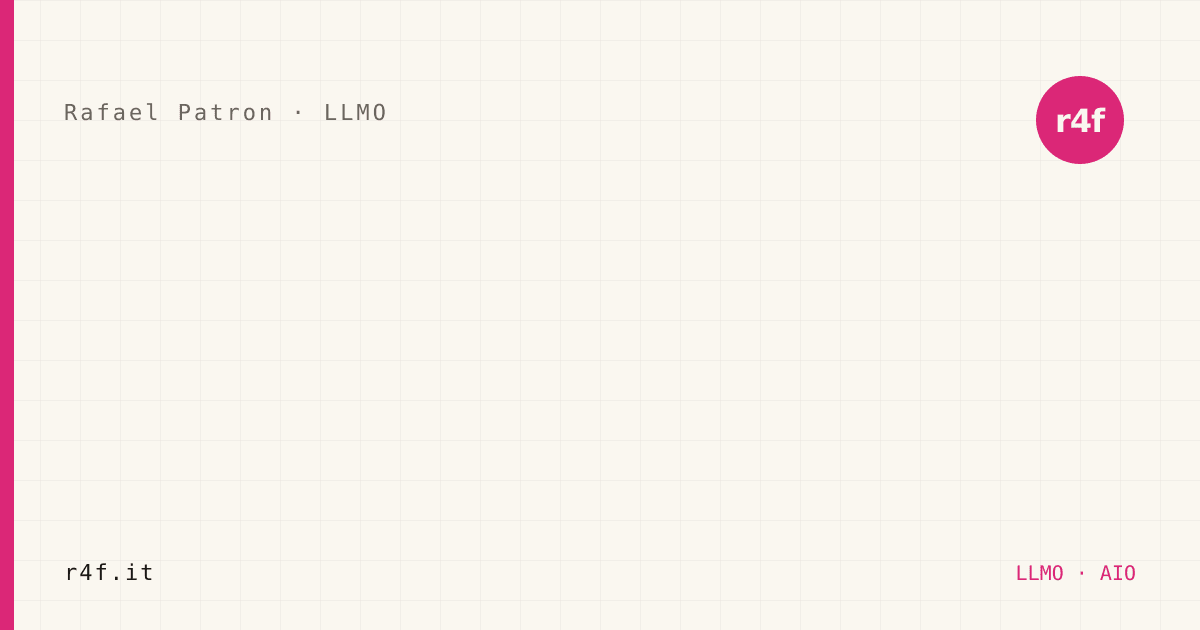
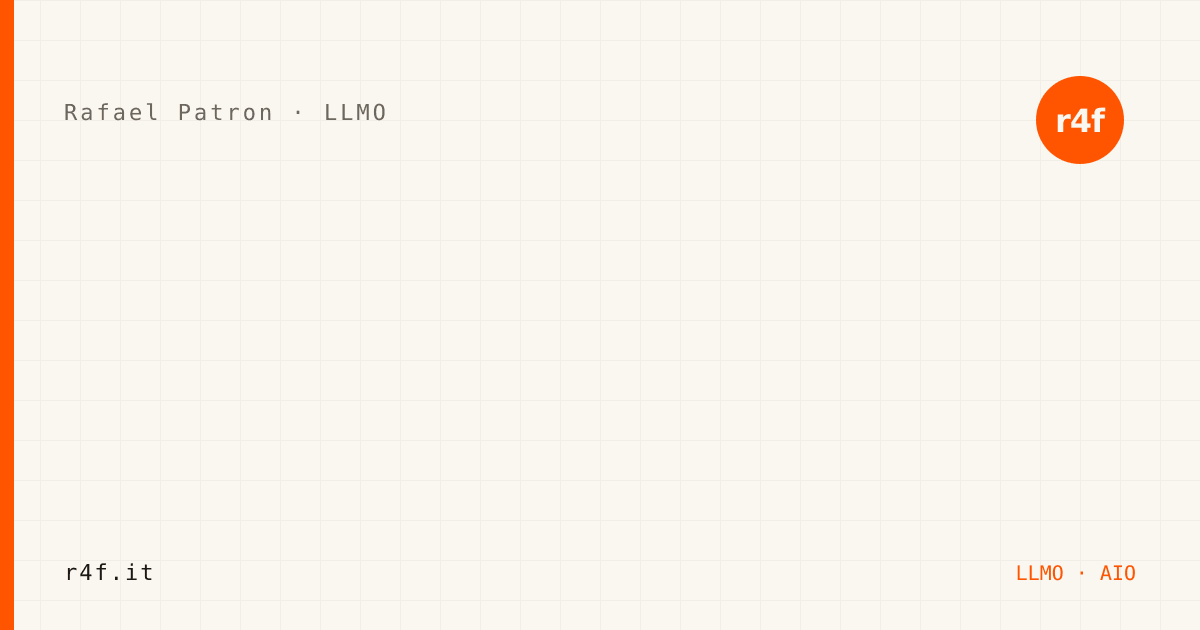
fix: palette arancio elettrico + meta SEO-first + audit SERP
- Sostituisce magenta #DB2777 con arancio elettrico #FF5500 (rosa Barbie segnalato dal cliente)
- Rinomina --color-magenta → --color-accent, --color-cobalt → --color-blue (token semantici)
- Variant naming components: variant="magenta" → variant="accent" su Pill, Button, RotatedBadge, MagneticCTA
- Classi .btn--magenta → .btn--accent, .tag--magenta → .tag--accent
- WCAG AA contrast: small mono captions e strong nei paragrafi passano a --color-accent-dark #CC3F00 (contrast 5.4) lasciando --color-accent #FF5500 solo su UI elements >18px e su bg
- meta theme-color in BaseLayout aggiornato a #FF5500 (entrambi i media)
- Riscrive meta title homepage SEO-first: keyword in apertura, brand in coda
- Audit meta tutte le 17 pagine canoniche: nessun title inizia con r4f.it, tutti 22-72 chars
- Rigenera OG images PNG con nuovo accent (og-default, og-home, og-chi-sono, og-audit-llmo)
- Rigenera favicon SVG + apple-touch + favicon-32 con dot arancio
- manifest.webmanifest theme_color → #FF5500

diff --git a/src/styles/global.css b/src/styles/global.css
@@ -19,10 +19,10 @@
   --color-line: #1A1815;
   --color-line-soft: rgba(26, 24, 21, 0.12);
 
-  --color-magenta: #DB2777;
-  --color-magenta-dark: #9D174D;
-  --color-magenta-soft: #FCE7F3;
-  --color-cobalt: #2E5BFF;
+  --color-accent: #FF5500;
+  --color-accent-dark: #CC3F00;
+  --color-accent-soft: #FFE8DA;
+  --color-blue: #2E5BFF;
 
   /* Typography */
   --font-display: "Bricolage Grotesque Variable", ui-serif, Georgia, serif;
@@ -76,7 +76,7 @@ body {
 }
 
 /* Selection */
-::selection { background: var(--color-magenta); color: var(--color-bg); }
+::selection { background: var(--color-accent); color: var(--color-bg); }
 
 /* Skip link */
 .skip-link {
@@ -96,7 +96,7 @@ body {
 
 /* Focus */
 :focus-visible {
-  outline: 2px solid var(--color-magenta);
+  outline: 2px solid var(--color-accent);
   outline-offset: 3px;
   border-radius: 2px;
 }
@@ -122,7 +122,7 @@ p { margin: 0 0 1em; max-width: 65ch; }
 a {
   color: var(--color-ink);
   text-decoration: none;
-  background-image: linear-gradient(var(--color-magenta), var(--color-magenta));
+  background-image: linear-gradient(var(--color-accent), var(--color-accent));
   background-position: 0 100%;
   background-size: 100% 1px;
   background-repeat: no-repeat;
@@ -217,7 +217,7 @@ code, pre {
   color: var(--color-ink-soft);
   background: var(--color-bg);
 }
-.tag--magenta { color: var(--color-magenta); border-color: var(--color-magenta); }
+.tag--accent { color: var(--color-accent-dark); border-color: var(--color-accent-dark); }
 
 /* ============================================
    Kinetic headline morph
@@ -306,14 +306,14 @@ code, pre {
   transition: background var(--dur-fast) var(--ease-out-quint), color var(--dur-fast) var(--ease-out-quint), transform var(--dur-fast) var(--ease-out-quint);
   background-image: none;
 }
-.btn:hover { background: var(--color-magenta); border-color: var(--color-magenta); color: var(--color-bg); }
+.btn:hover { background: var(--color-accent); border-color: var(--color-accent); color: var(--color-bg); }
 .btn:active { transform: translateY(1px); }
 
 .btn--ghost { background: transparent; color: var(--color-ink); }
 .btn--ghost:hover { background: var(--color-ink); color: var(--color-bg); border-color: var(--color-ink); }
 
-.btn--magenta { background: var(--color-magenta); border-color: var(--color-magenta); }
-.btn--magenta:hover { background: var(--color-magenta-dark); border-color: var(--color-magenta-dark); }
+.btn--accent { background: var(--color-accent); border-color: var(--color-accent); }
+.btn--accent:hover { background: var(--color-accent-dark); border-color: var(--color-accent-dark); }
 
 .btn .arrow {
   display: inline-block;
@@ -341,7 +341,7 @@ code, pre {
   font-size: .85rem;
   font-weight: 600;
   letter-spacing: 0.04em;
-  color: var(--color-magenta);
+  color: var(--color-accent-dark);
 }
 
 .card__title { font-size: 1.4rem; font-weight: 600; line-height: 1.2; letter-spacing: -0.015em; }
@@ -367,7 +367,7 @@ code, pre {
 .prose ul, .prose ol { margin: 0 0 1.4em; padding-left: 1.5em; }
 .prose li { margin-bottom: .5em; }
 .prose blockquote {
-  border-left: 3px solid var(--color-magenta);
+  border-left: 3px solid var(--color-accent);
   padding-left: 1.2em;
   margin: 1.8em 0;
   font-style: italic;
@@ -375,7 +375,7 @@ code, pre {
 }
 .prose a {
   color: var(--color-ink);
-  background-image: linear-gradient(var(--color-magenta), var(--color-magenta));
+  background-image: linear-gradient(var(--color-accent), var(--color-accent));
   background-position: 0 92%;
   background-size: 100% 2px;
 }
